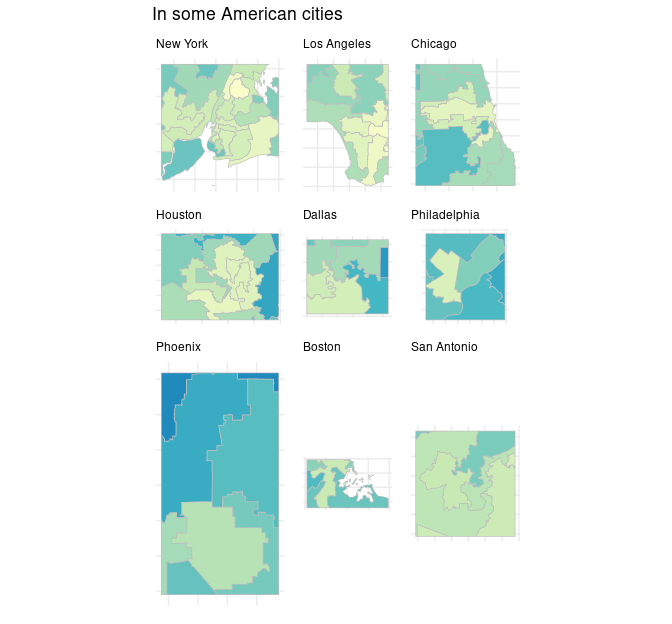
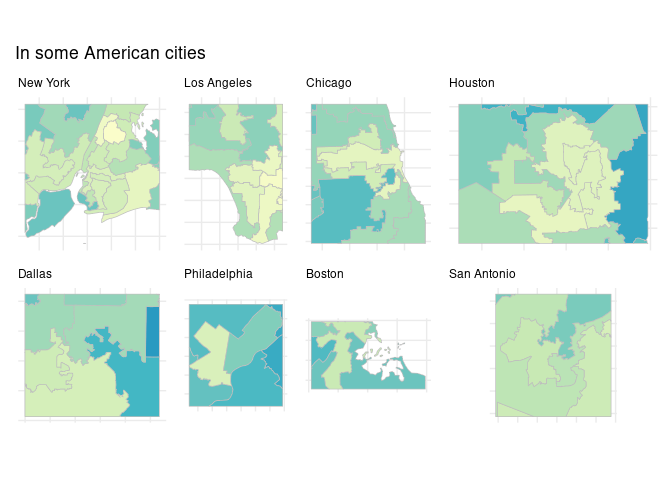
re

diff --git a/all-the-newness.md b/all-the-newness.md
@@ -256,7 +256,7 @@ vvo <- Rvoteview::download_metadata(type = 'members',
   filter(congress > 66 & chamber != 'President')
 ```
 
-    ## [1] "/tmp/RtmpDGT55V/Hall_members.csv"
+    ## [1] "/tmp/RtmpOnKZKu/Hall_members.csv"
 
 ``` r
 house <- vvo %>%
@@ -410,8 +410,8 @@ quicknews::qnews_search_contexts(qorp = qorp,
 <table>
 <caption>Search-in-context: COVID-19 &amp; coronavirus</caption>
 <colgroup>
-<col style="width: 6%" />
-<col style="width: 93%" />
+<col style="width: 5%" />
+<col style="width: 94%" />
 </colgroup>
 <thead>
 <tr class="header">
@@ -421,32 +421,32 @@ quicknews::qnews_search_contexts(qorp = qorp,
 </thead>
 <tbody>
 <tr class="odd">
-<td style="text-align: left;">text27175</td>
-<td style="text-align: left;">… banks and public funds . 5 . Officers of the <code>federal government</code> with some exceptions . 6 . Office-hunters , willing to …</td>
+<td style="text-align: left;">text26525</td>
+<td style="text-align: left;">… of France , residing in your state , that the <code>federal government</code> , respecting his nation , and attentive to the safety …</td>
 </tr>
 <tr class="even">
-<td style="text-align: left;">text2383</td>
-<td style="text-align: left;">… - In America was happily set the example of a <code>Federal Government</code> ; of freedom of religions &amp; of other beneficial novelties …</td>
+<td style="text-align: left;">text18719</td>
+<td style="text-align: left;">… have proposed various arrangements for limiting these usurpations . The <code>federal Government</code> had itself proposed measures on this subject - the first …</td>
 </tr>
 <tr class="odd">
-<td style="text-align: left;">text1215</td>
-<td style="text-align: left;">… family . Our Rulers continue as obstinately opposed to the <code>Federal Government</code> as ever , and I have no Idea that they …</td>
+<td style="text-align: left;">text10528</td>
+<td style="text-align: left;">… to determine at all events to pursue it . The <code>federal government</code> opens upon us a scene new &amp; variegated , &amp; …</td>
 </tr>
 <tr class="even">
-<td style="text-align: left;">text20426</td>
-<td style="text-align: left;">… more enlarged plan , for a general revision of the <code>Federal Government</code> . From this convention proceeded the present Federal Constitution , …</td>
+<td style="text-align: left;">text5677</td>
+<td style="text-align: left;">… or spirit or both , still professing friendship to the <code>federal government</code> . This new assembling of the Committees was it seems …</td>
 </tr>
 <tr class="odd">
-<td style="text-align: left;">text21672</td>
-<td style="text-align: left;">… 20th . of June . The bill for removing the <code>federal government</code> to Philadelphia for 10 . years and then to Georgetown …</td>
+<td style="text-align: left;">text10298</td>
+<td style="text-align: left;">… length arrived when there appears a prospect of an efficient <code>federal government</code> , under which , Officers are to be appointed by …</td>
 </tr>
 <tr class="even">
-<td style="text-align: left;">text12010</td>
-<td style="text-align: left;">… united States having rendered it expedient to resort to the <code>federal Government</code> for such prudent regulations as may best tend to secure …</td>
+<td style="text-align: left;">text9610</td>
+<td style="text-align: left;">… , " 27 May 1790 , DLC:GW ) . The <code>federal government</code> took as strong action as possible during the summer of …</td>
 </tr>
 <tr class="odd">
-<td style="text-align: left;">text10451</td>
-<td style="text-align: left;">… to Join his aid in carrying into Execution the Glorious <code>Federal Government</code> . In the various arangement of Office , if I …</td>
+<td style="text-align: left;">text19091</td>
+<td style="text-align: left;">… part of our fellow citizens ; the friends of the <code>federal government</code> will evince that spirit of deference and concession for which …</td>
 </tr>
 </tbody>
 </table>
@@ -741,7 +741,7 @@ mplot %>%
         axis.title.x=element_blank(),
         axis.title.y=element_blank(),
         panel.background = element_rect(fill = '#d5e4eb', color = NA),
-        legend.position = 'right') +
+        legend.position = 'bottom') +
 labs(title = "The American White Working Class")
 ```
 
@@ -753,8 +753,7 @@ Zoom to cities –
 sub_geos <- c('New York, NY', 'Los Angeles, CA',
               'Chicago, IL', 'Houston, TX', 
               'Dallas, TX', 'Philadelphia, PA',
-              'Phoenix, AZ', 'Boston, MA',
-              'San Antonio, TX')
+              'Boston, MA', 'San Antonio, TX')
 
 main <- mplot
 plots <- lapply(sub_geos, function(x) {
@@ -780,7 +779,7 @@ plots <- lapply(sub_geos, function(x) {
       ggtitle(gsub(',.*$', '', x))   })
   
 
-patchwork::wrap_plots(plots, ncol = 3) +
+patchwork::wrap_plots(plots, ncol = 4) +
   patchwork::plot_annotation(title = 'In some American cities')
 ```
 
